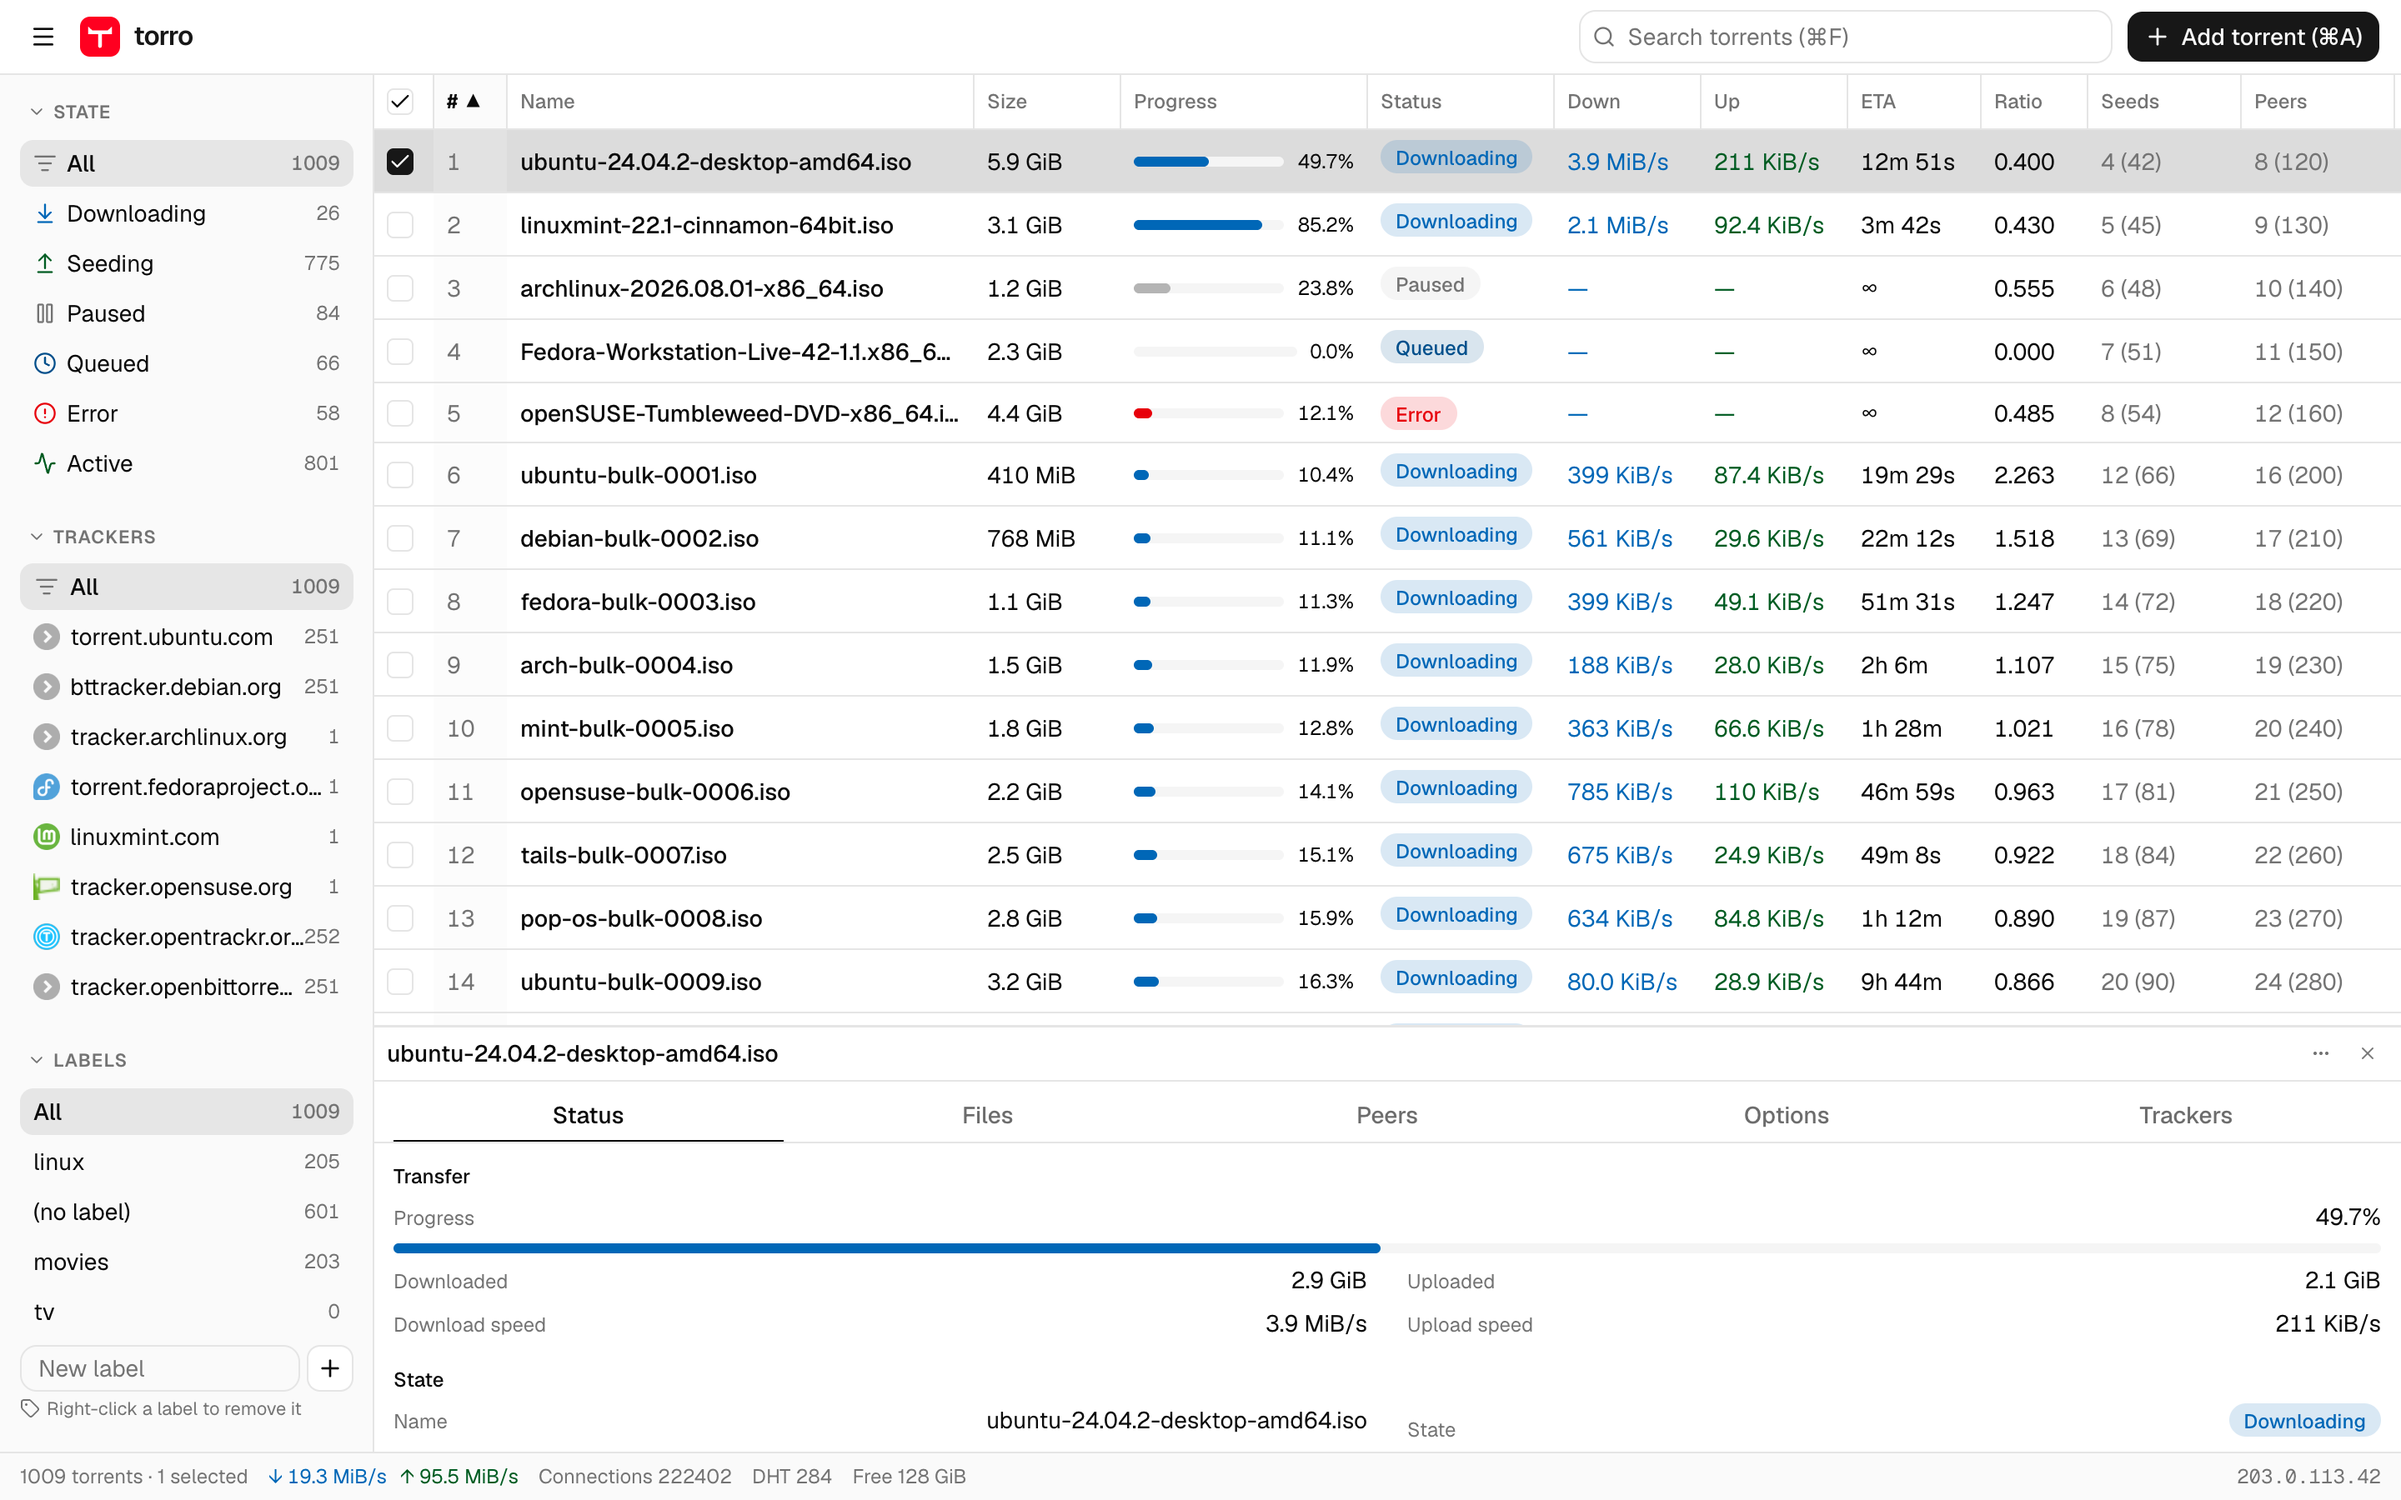
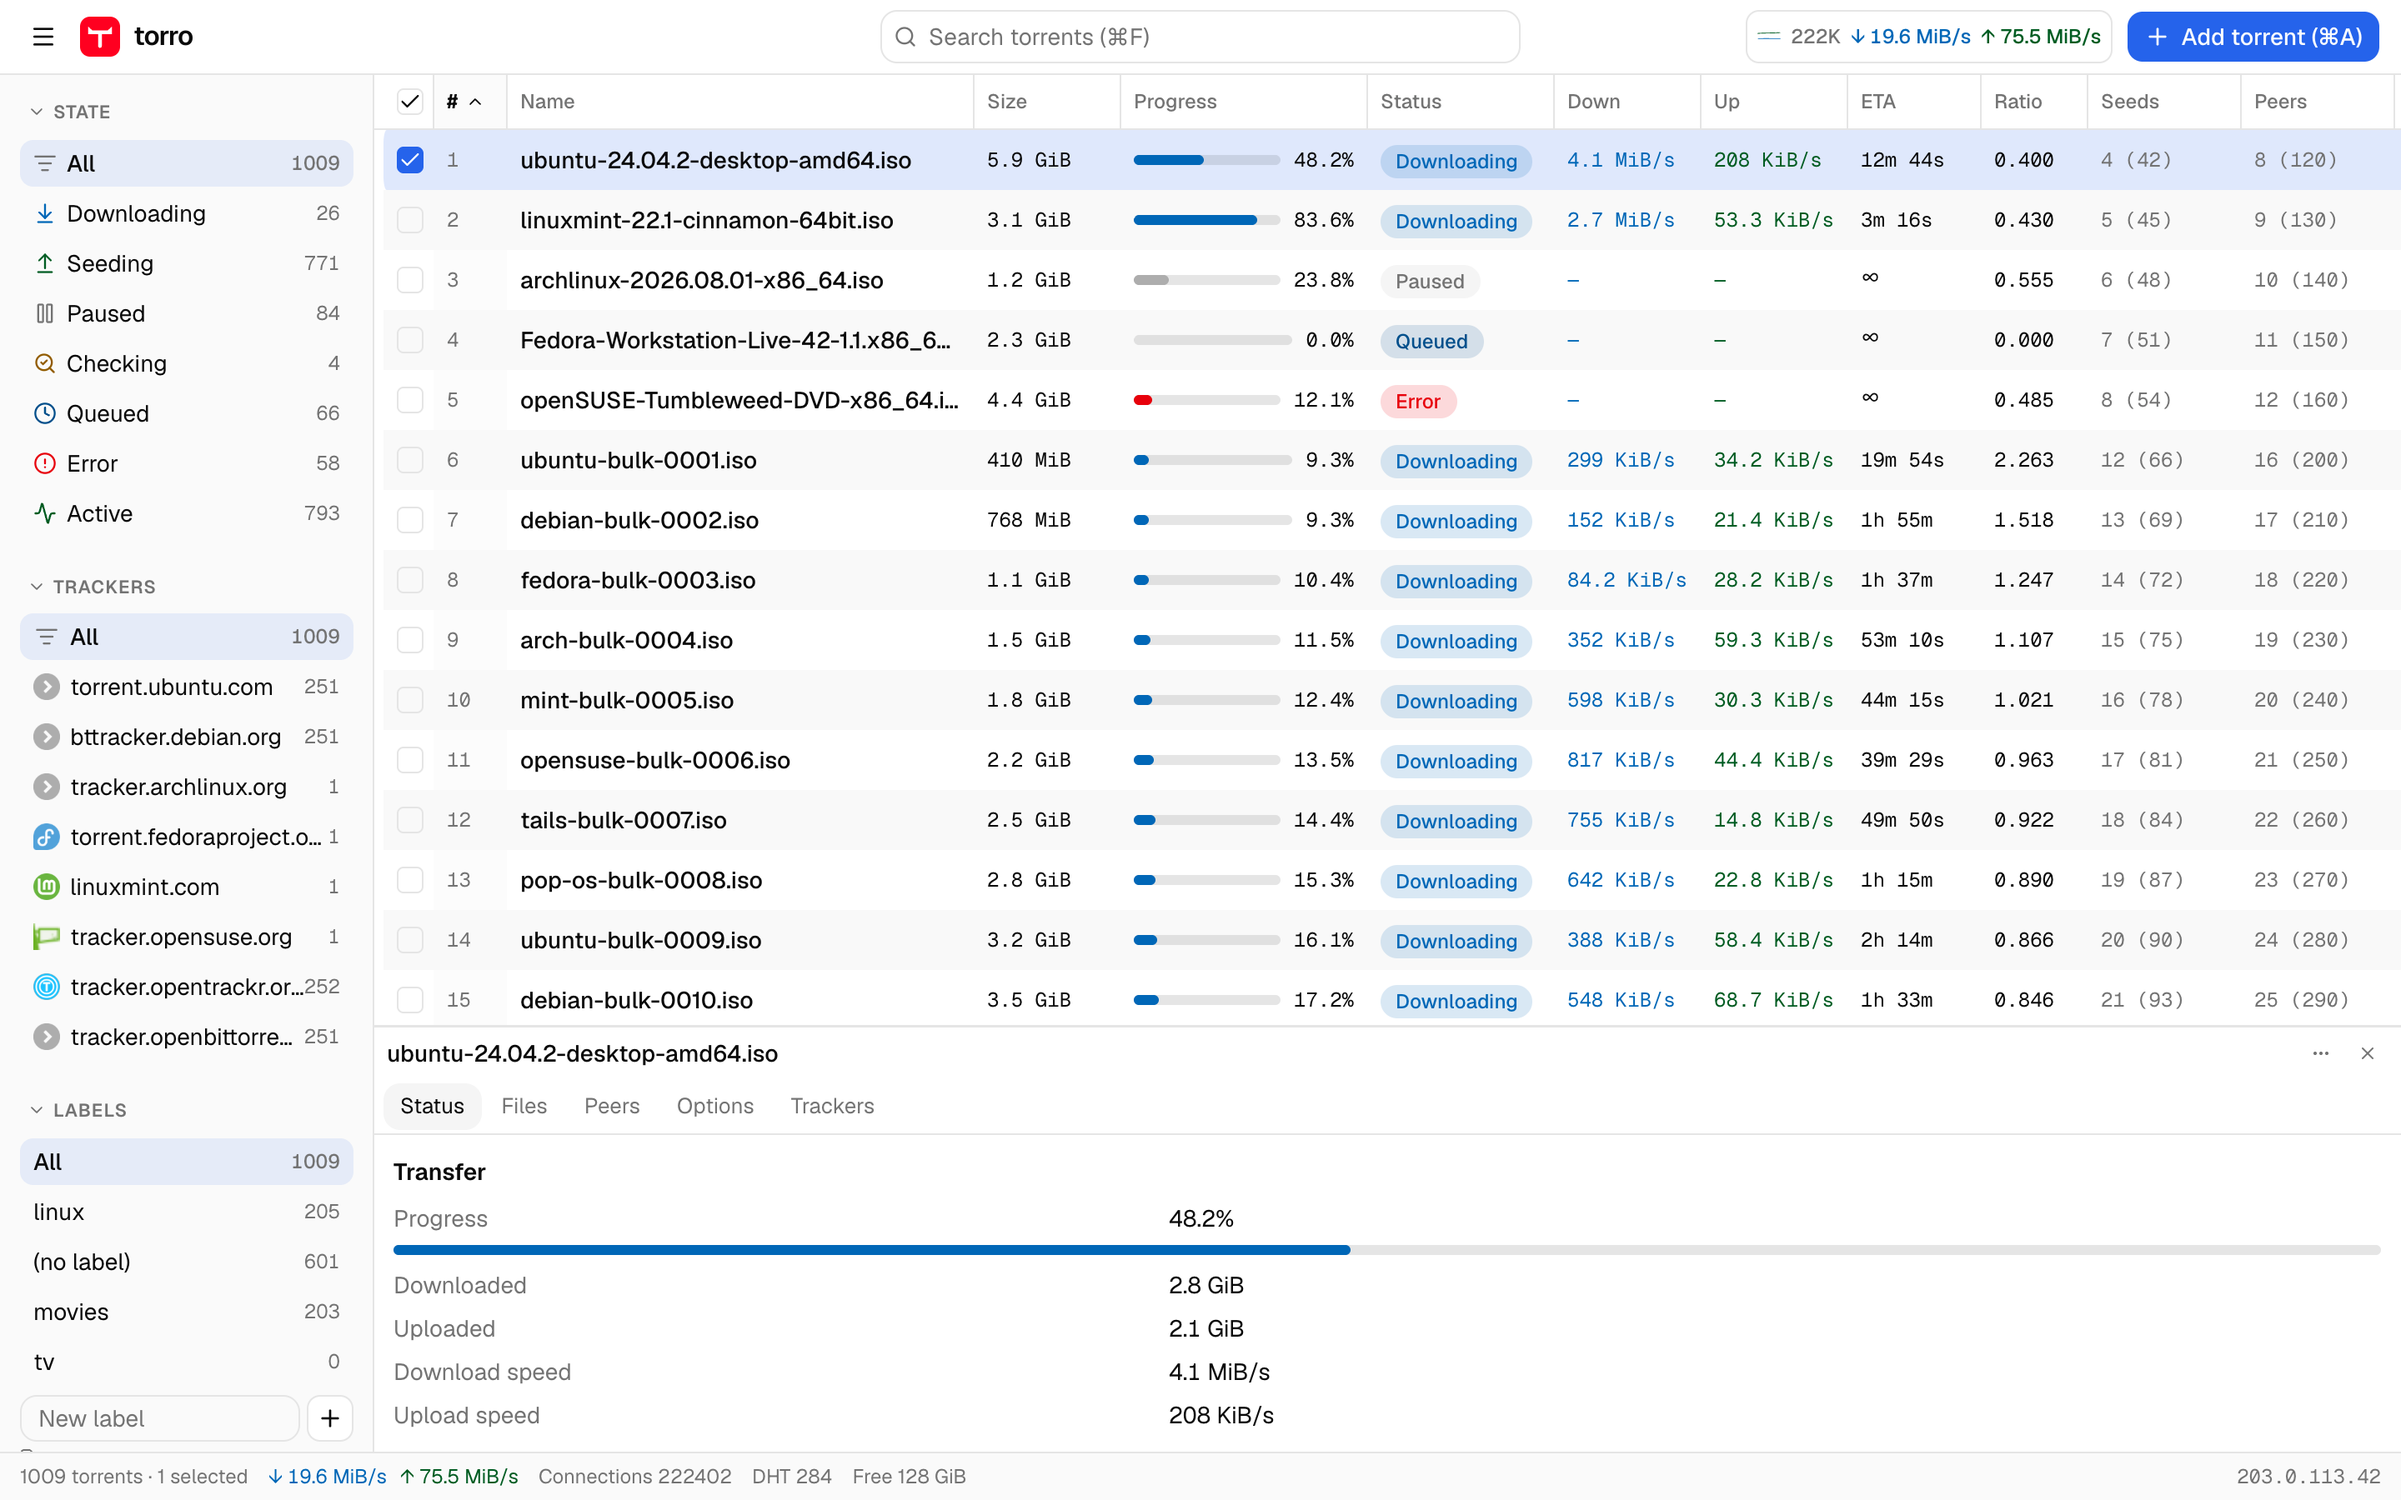
Refresh README screenshots and document the current desktop UI.

diff --git a/README.md b/README.md
@@ -15,6 +15,9 @@ Licensed under [GPL-3.0](./LICENSE).
 ## Features
 
 - One layout for both clients: sidebar filters, searchable table, details pane, and **Add torrent**
+- Finder-style list selection (click, Shift-click, keyboard) and a double-click inspector dialog
+- Live session chip with transfer sparkline; tab favicon shows download progress
+- Browser notification when a torrent finishes
 - Row actions for pause / resume / remove / queue / move / recheck
 - Menu for Preferences, Connection Manager, theme, and sign out
 - Connection screen: choose **Deluge** or **Transmission**, then URL and credentials
@@ -26,6 +29,14 @@ Licensed under [GPL-3.0](./LICENSE).
 ## Screenshots
 
 Light-mode desktop views of the current UI.
+
+### Inspector
+
+Double-click a row for the centered inspector. The docked details pane stays a pane.
+
+<p align="center">
+  <img src="docs/screenshots/inspector.png" alt="torro torrent inspector dialog" />
+</p>
 
 ### Preferences
 
